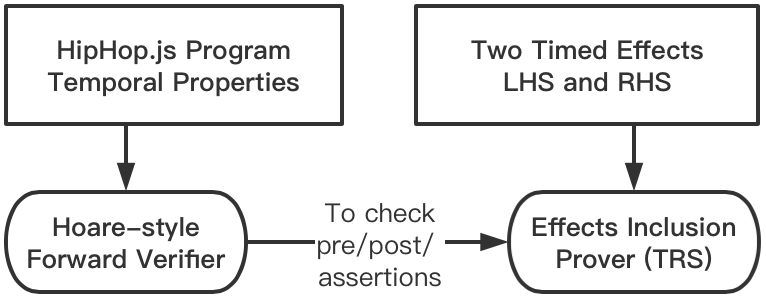
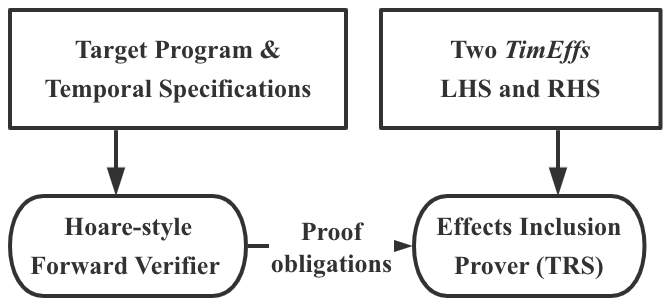
m

Changed region(s): [[0.0, 0.0, 1.0, 0.99], [0.6567, 0.24, 0.8955, 0.33]]

diff --git a/paper/tv.tex b/paper/tv.tex
@@ -25,7 +25,7 @@
 %\setcopyright{rightsretained}
 %\copyrightyear{2018}           %% If different from \acmYear
 
-
+\usepackage{tikz}
 \usepackage{xcolor}
 \usepackage[thicklines]{cancel}
 \renewcommand{\CancelColor}{\color{lightgray}}
@@ -1429,7 +1429,7 @@ from the following concrete domains: \code{d}  {\defeq}\  \code{\mathbb{N}},
 
 
 \begin{figure}[!ht]
-  \vspace{-1mm}
+  \vspace{-3mm}
   \renewcommand{\arraystretch}{1.2}
 \small\begin{align*}
 %%%%%%%%%%%%%%%%%%%%%%%%%%%%
@@ -1630,20 +1630,97 @@ $\lappend$ to represent the append operation of two traces;
 
 
 
-\begin{wrapfigure}{R}{0.5\columnwidth}
-    \vspace{-3mm}
-\centering
-\includegraphics[width=0.5\columnwidth]{verification.png}
-        \vspace{-3mm}
+\begin{wrapfigure}{R}{0.54\columnwidth}
+  \vspace{-3mm}
+
+\tikzset{every picture/.style={line width=0.75pt}} %set default line width to 0.75pt        
+
+\begin{tikzpicture}[x=0.75pt,y=0.75pt,yscale=-0.65,xscale=0.65]
+%uncomment if require: \path (0,300); %set diagram left start at 0, and has height of 300
+
+
+%Rounded Rect [id:dp1113766752673011] 
+\draw  [line width=1.5]  (68,142.52) .. controls (68,136.24) and (73.09,131.15) .. (79.37,131.15) -- (216.63,131.15) .. controls (222.91,131.15) and (228,136.24) .. (228,142.52) -- (228,176.63) .. controls (228,182.91) and (222.91,188) .. (216.63,188) -- (79.37,188) .. controls (73.09,188) and (68,182.91) .. (68,176.63) -- cycle ;
+%Shape: Rectangle [id:dp6438165442964394] 
+\draw  [line width=1.5]  (67,51) -- (287,51) -- (287,104) -- (67,104) -- cycle ;
+%Rounded Rect [id:dp29624677487783313] 
+\draw  [line width=1.5]  (328,142.52) .. controls (328,136.24) and (333.09,131.15) .. (339.37,131.15) -- (473.63,131.15) .. controls (479.91,131.15) and (485,136.24) .. (485,142.52) -- (485,176.63) .. controls (485,182.91) and (479.91,188) .. (473.63,188) -- (339.37,188) .. controls (333.09,188) and (328,182.91) .. (328,176.63) -- cycle ;
+%Shape: Rectangle [id:dp5138829561825217] 
+\draw  [line width=1.5]  (309,52) -- (486,52) -- (486,104) -- (309,104) -- cycle ;
+%Straight Lines [id:da1612175737893331] 
+\draw [line width=1.5]    (137,109) -- (137,127.22) ;
+\draw [shift={(137,130.22)}, rotate = 270] [color={rgb, 255:red, 0; green, 0; blue, 0 }  ][line width=1.5]    (14.21,-4.28) .. controls (9.04,-1.82) and (4.3,-0.39) .. (0,0) .. controls (4.3,0.39) and (9.04,1.82) .. (14.21,4.28)   ;
+%Straight Lines [id:da5383095517878319] 
+\draw [line width=1.5]    (428,108) -- (428,127.95) ;
+\draw [shift={(428,130.95)}, rotate = 270] [color={rgb, 255:red, 0; green, 0; blue, 0 }  ][line width=1.5]    (14.21,-4.28) .. controls (9.04,-1.82) and (4.3,-0.39) .. (0,0) .. controls (4.3,0.39) and (9.04,1.82) .. (14.21,4.28)   ;
+%Straight Lines [id:da5450046441977192] 
+\draw [line width=1.5]  [dash pattern={on 5.63pt off 4.5pt}]  (229,164.5) -- (275,165.5) -- (325,165.97) ;
+\draw [shift={(328,166)}, rotate = 180.54] [color={rgb, 255:red, 0; green, 0; blue, 0 }  ][line width=1.5]    (14.21,-4.28) .. controls (9.04,-1.82) and (4.3,-0.39) .. (0,0) .. controls (4.3,0.39) and (9.04,1.82) .. (14.21,4.28)   ;
+
+% Text Node
+\draw (61,57) node [anchor=north west][inner sep=0.75pt]   [align=left] {\begin{minipage}[lt]{113.09pt}\setlength\topsep{0pt}
+\begin{center}
+Target Program \&\\ Temporal Specifications
+\end{center}
+
+\end{minipage}};
+% Text Node
+\draw (66.57,139.15) node [anchor=north west][inner sep=0.75pt]   [align=left] {\begin{minipage}[lt]{77.55pt}\setlength\topsep{0pt}
+\begin{center}
+Hoare-style \\Forward Verifier 
+\end{center}
+
+\end{minipage}};
+% Text Node
+\draw (325,58) node [anchor=north west][inner sep=0.75pt]   [align=left] {\begin{minipage}[lt]{66.79pt}\setlength\topsep{0pt}
+\begin{center}
+Two \textit{Timeffs} \\LHS and RHS
+\end{center}
+
+\end{minipage}};
+% Text Node
+\draw (325,139.9) node [anchor=north west][inner sep=0.75pt]   [align=left] {\begin{minipage}[lt]{79.64pt}\setlength\topsep{0pt}
+\begin{center}
+Effects Inclusion \\Prover (TRS)
+\end{center}
+
+\end{minipage}};
+% Text Node
+\draw (223.8,117.63) node [anchor=north west][inner sep=0.75pt]   [align=left] {\begin{minipage}[lt]{51.49pt}\setlength\topsep{0pt}
+\begin{center}
+Proof \\obligations
+\end{center}
+
+\end{minipage}};
+
+
+\end{tikzpicture}
+
+
+
+
+ %   \vspace{-4mm}
+%\centering
+%\includegraphics[width=1\columnwidth]{verification.png}
+%        \vspace{-3mm}
+%\caption{\label{fig:Verification_oberview}System Overview.}
+%      \vspace{-1mm}
 \caption{\label{fig:Verification_oberview}System Overview.}
-      \vspace{-1mm}
 \end{wrapfigure}
 
-An overview of our automated verification system is given in \figref{fig:Verification_oberview} It consists of a Hoare-style forward verifier and a TRS. 
-The inputs of the forward verifier are HipHop.js programs annotated with temporal specifications written in \timedEffects (cf. \figref{fig:overview_coffee}). 
+An overview of our automated verification system is given 
+in \figref{fig:Verification_oberview} 
+Rounded boxes are the main procedures, and both return \emph{true} 
+when the forward reasoning/proving succeeds, return \emph{false} 
+otherwise. Rectangular boxes describe the inputs to the procedures.
+The input of the TRS is a pair of effects LHS and RHS, referring to the 
+inclusion LHS \code{\CONTAIN} RHS to be checked 
+\textit{(LHS refers to left-hand-side effects, and RHS refers to right-hand-side 
+effects)}. 
+Besides, the verifier calls the TRS to prove produced inclusions (dash line). 
+The TRS will be explained in \secref{sec:Entailment_Prover}. 
 
-The input of the TRS is a pair of effects LHS and RHS, referring to the inclusion LHS \code{\CONTAIN} RHS to be checked 
-\textit{(LHS refers to left-hand side effects, and RHS refers to right-hand side effects.)}. Besides, the verifier calls the TRS to prove produced inclusions, i.e., between the effects states and pre/post conditions or assertions (cf. \figref{fig:forward_example}). The TRS will be explained in \secref{sec:Entailment_Prover}. 
+
 
 \newcommand{\s}[1]{\code{\{ #1\}}}
 
